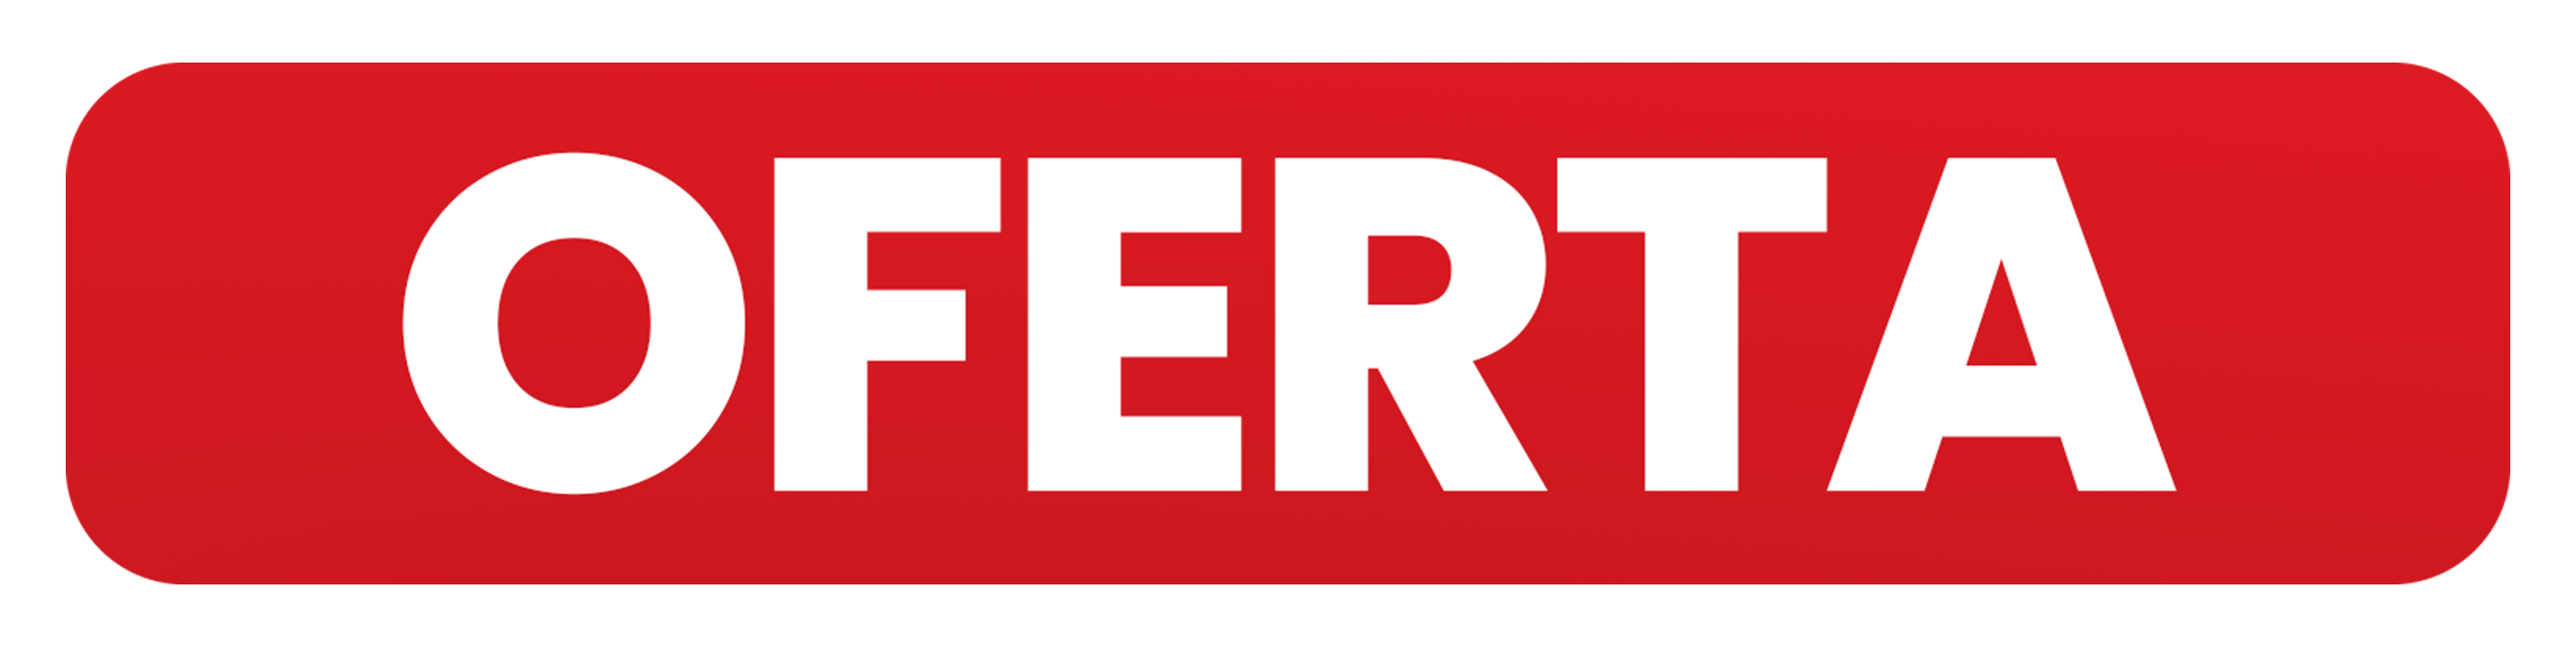
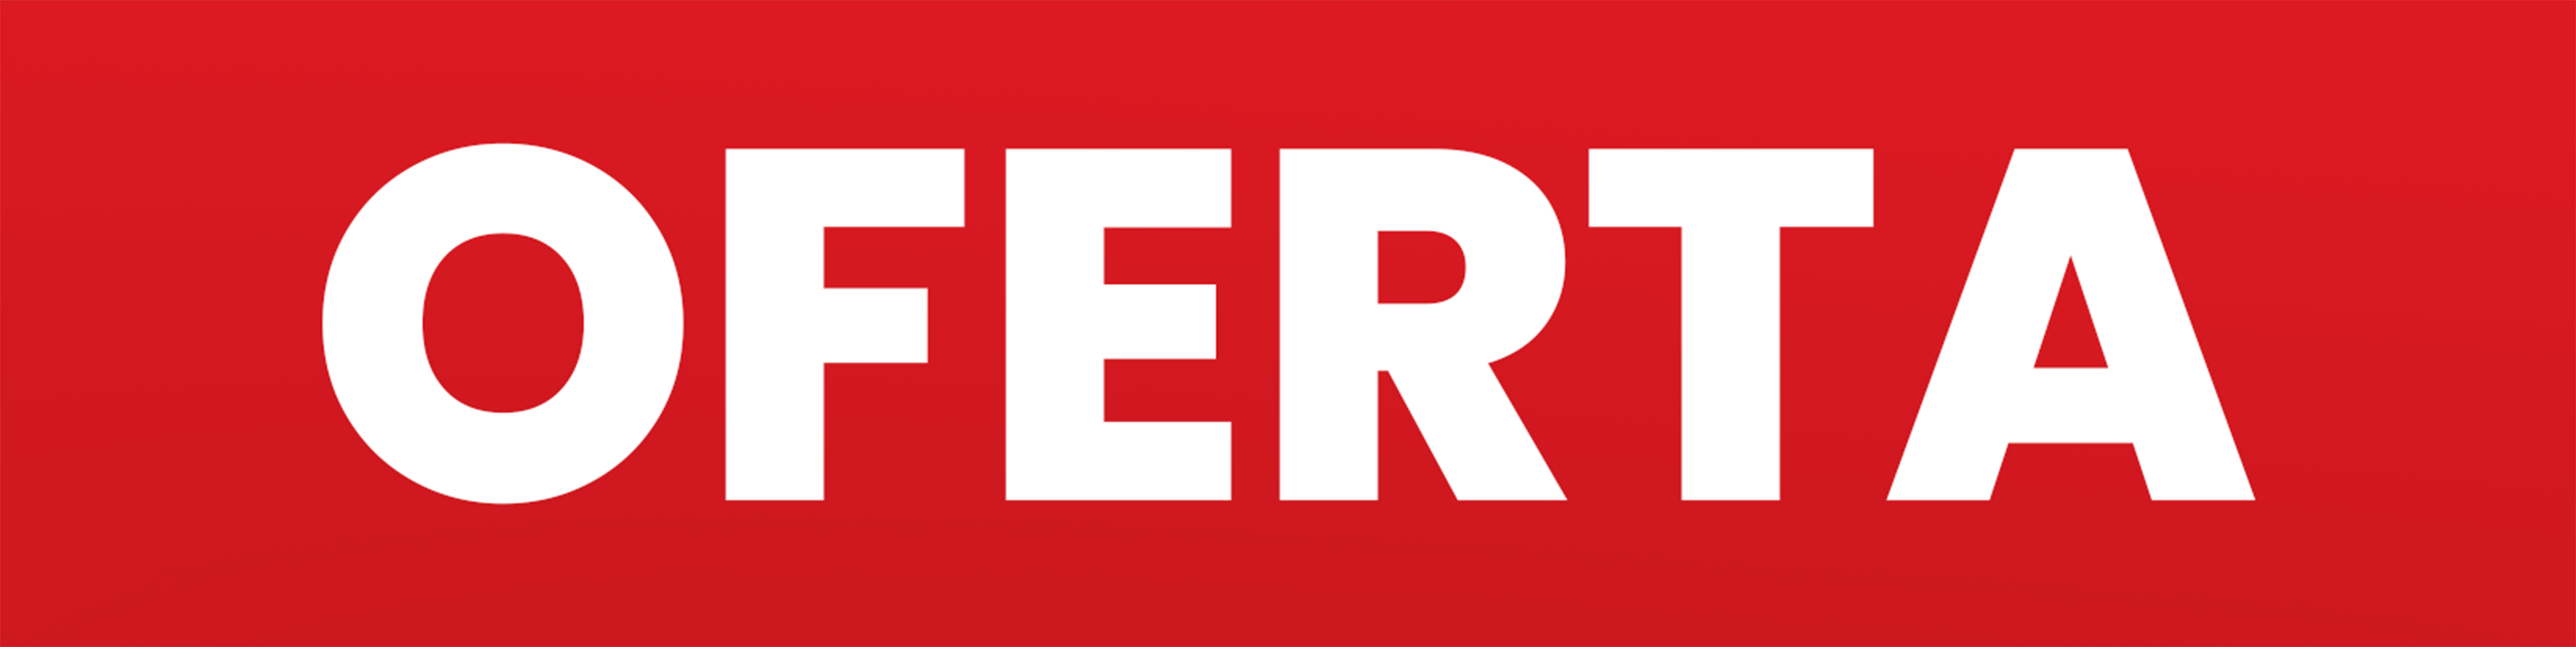
cambio de tag oferta

diff --git a/src/components/Card.module.css b/src/components/Card.module.css
@@ -6,17 +6,14 @@
   gap: 20px;
 }
 
-.cinta-offer {
+.cinta {
   position: absolute;
   top: 35px;
   left: -10px;
-  z-index: 10; /* Ajusta según sea necesario */
-}
-.cinta {
-  /* Estilos de la imagen de la cinta */
-  width: 120px; /* Ajusta el tamaño según sea necesario */
-  height: auto;
-  transform: rotate(-48deg);
+  z-index: 10;
+  width: 120px;
+  box-shadow: 0 4px 10px rgba(0, 0, 0, 0.3);
+  border-radius: 8px;
 }
 
 .product-card {
@@ -32,7 +29,7 @@
   transition: transform 0.5s ease, box-shadow 0.5s ease; /* Suaves transiciones */
   height: 400px;
   box-sizing: border-box;
-  overflow: hidden;
+
   box-shadow: 0 4px 10px rgba(0, 0, 0, 0.08); /* Sombra más suave y difusa */
 }
 

diff --git a/src/components/Card.tsx b/src/components/Card.tsx
@@ -44,14 +44,12 @@ function CreateCard({ option }: { option: Products }) {
           className={styles["product-card"]}
         >
           {Number(option.precioOferta) !== 0 && (
-            <div className={styles["cinta-offer"]}>
-              <img
-                src="/OFERTAS/oferta tag.png"
-                alt="Cinta de oferta"
-                loading="lazy"
-                className={styles["cinta"]}
-              />
-            </div>
+            <img
+              src="/OFERTAS/oferta tag.png"
+              alt="Cinta de oferta"
+              loading="lazy"
+              className={styles["cinta"]}
+            />
           )}
           <img
             src={currentImage}
